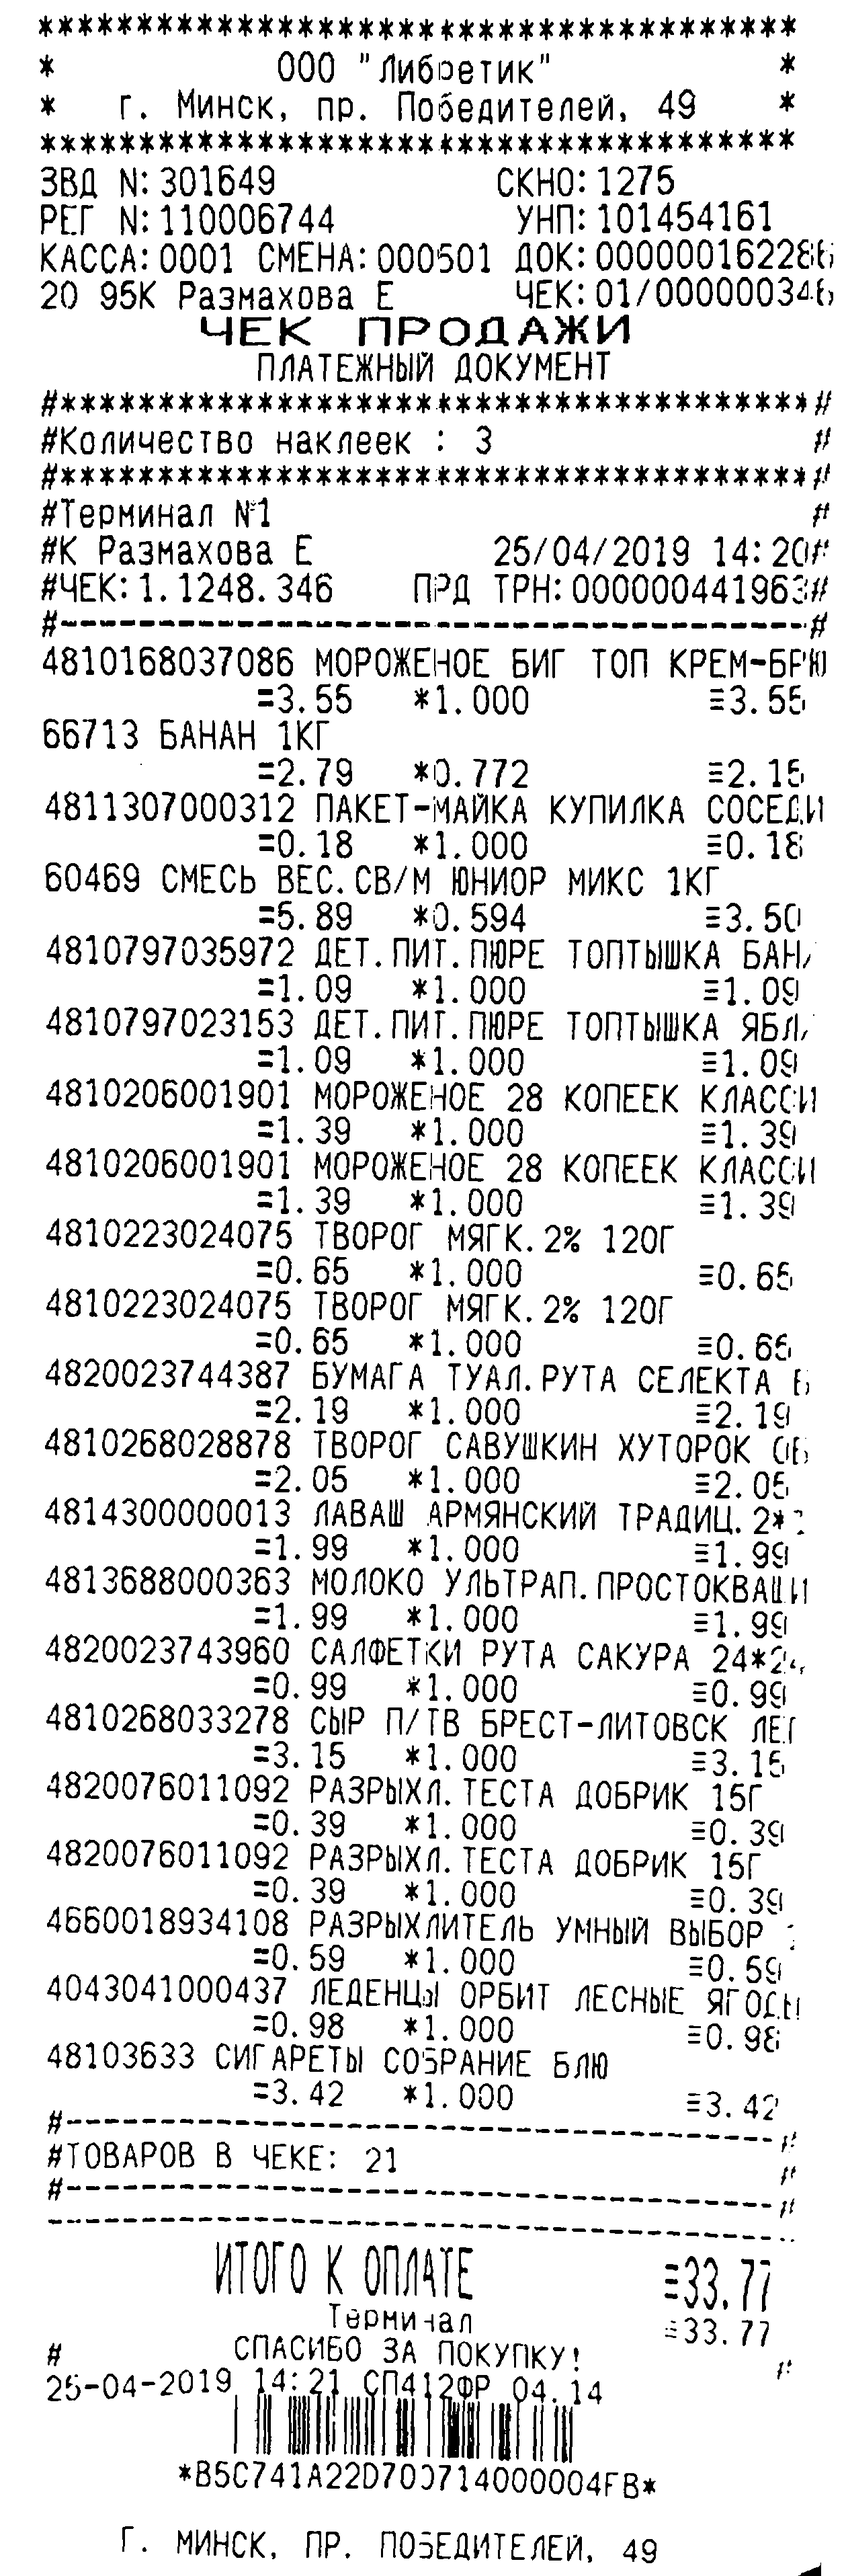
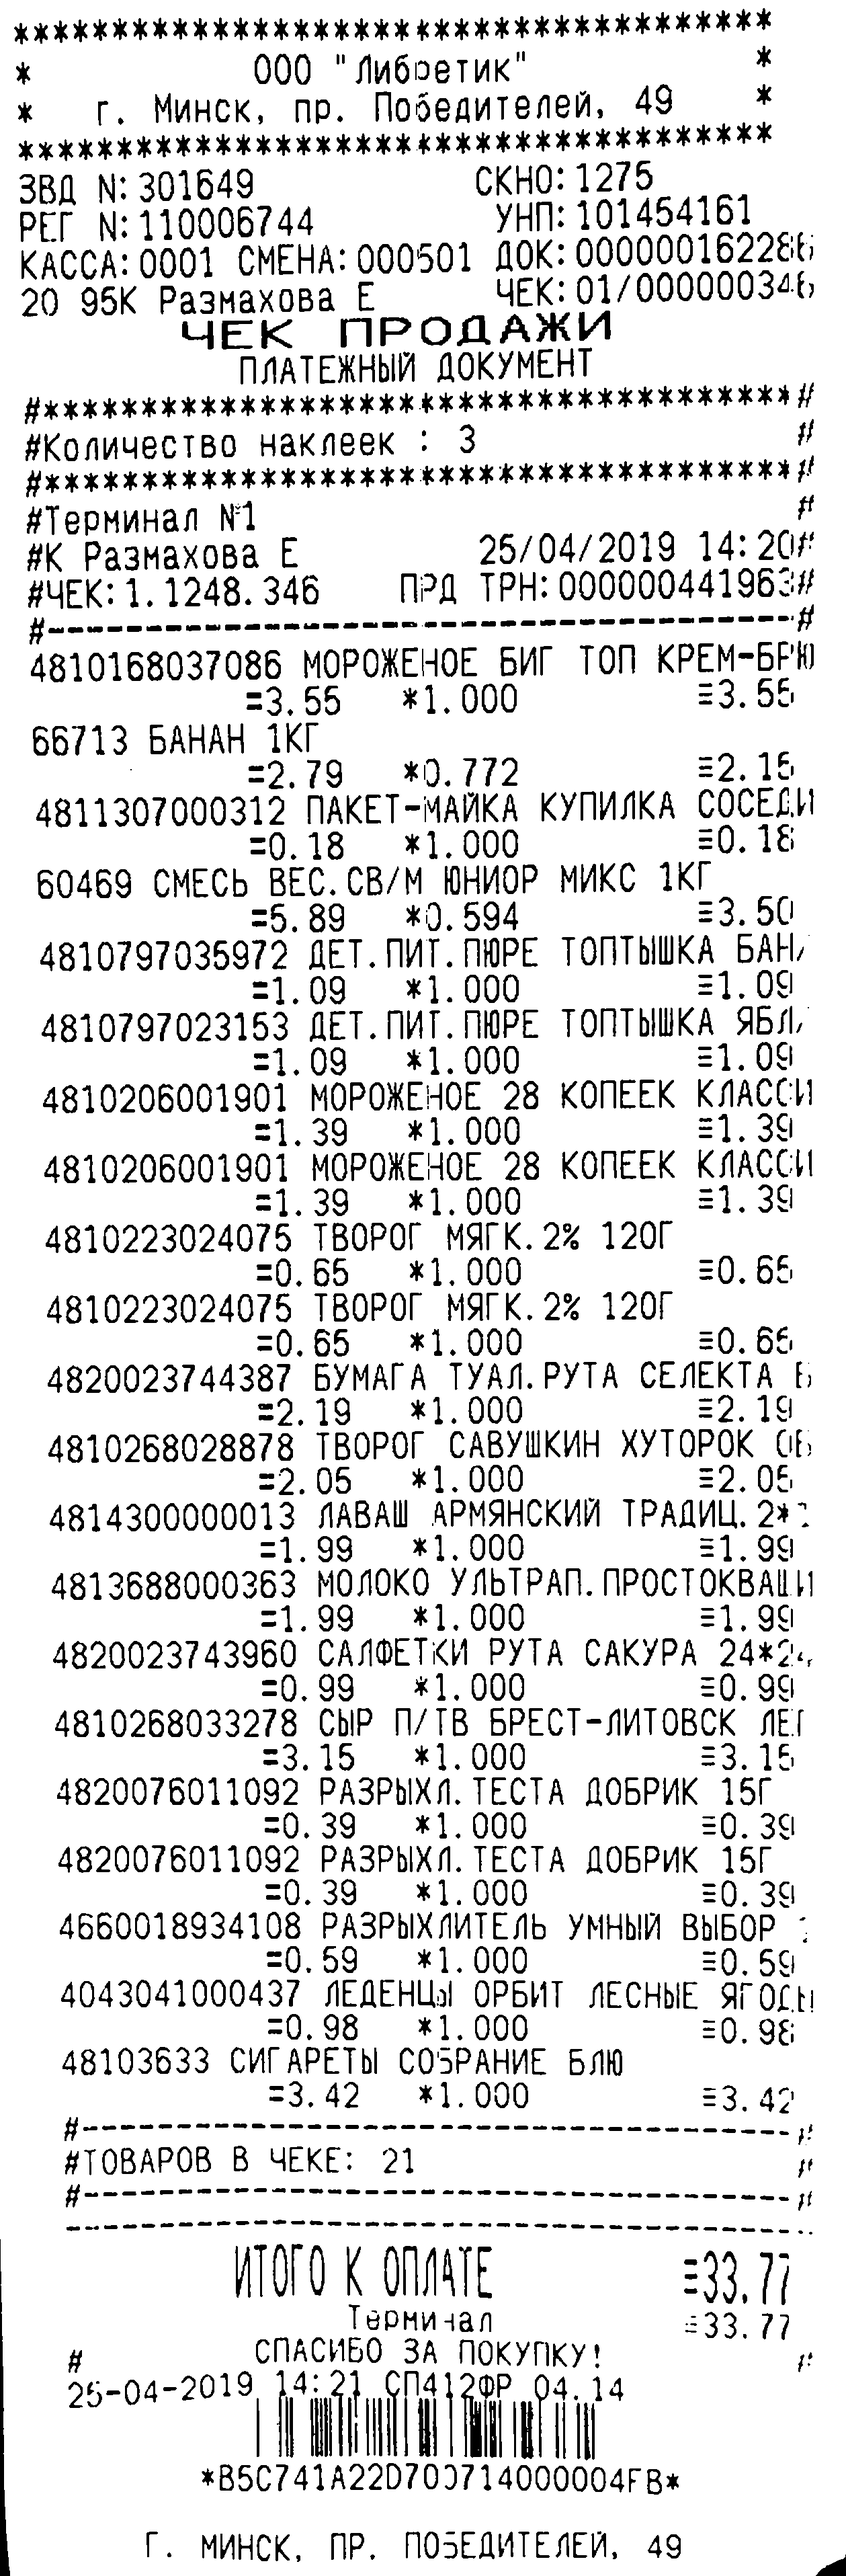
Finished splitting to lines; comperssion of images; shop deducting

diff --git a/yourbudget/algorithm/ReceiptReader.py b/yourbudget/algorithm/ReceiptReader.py
@@ -1,5 +1,6 @@
 from PIL import Image, ImageDraw
 
+from algorithm.readers import *
 from algorithm.Region import Region
 from algorithm.Receipt import Receipt
 from algorithm.RegionFinder import RegionFinder
@@ -9,13 +10,13 @@ from math import atan, pi
 import cv2
 import pyocr
 import pyocr.builders
-import pytesseract
+from pytesseract import image_to_string as img_to_str
 import numpy
 
 DEBUG = False
 
 USE_PYOCR = False
-USE_UPDATE = True
+USE_UPDATE = False
 
 def cut_noise(image):
     threshold = 140
@@ -67,16 +68,19 @@ class ReceiptReader:
     # todo: refactor
     @classmethod
     def find_unparsed_lines(cls, img):
-        draw = ImageDraw.Draw(img)
+        img = cls.rotate_image(img)
 
         matrix = cls.get_matrix_from_image(img)
         m, n = img.size
+        matrix.append([0] * m)
+        n += 1
 
-        lines = []
-        in_region = False
+        img_lines = []
+        in_region = True
+        last_line = 0
 
         for i in range(n):
-            ok = True
+            white_line = True
 
             fp, lp = None, None
 
@@ -90,52 +94,56 @@ class ReceiptReader:
                     lp = j
 
             if fp is None:
-                ok = False
+                white_line = False
 
-            if ok:
+            if white_line:
                 for j in range(fp, lp + 1):
-                    if matrix[i][j]:
-                        ok = False
+                    if matrix[i][j] == 1:
+                        white_line = False
 
             if lp - fp < m // 2:
-                ok = False
+                white_line = False
 
-            if not ok:
+            if not white_line:
                 in_region = False
 
-            if ok and not in_region:
-                lines.append(i)
-                # if DEBUG:
-                draw.line((0, i, m - 1, i), fill=128)
+            if white_line and not in_region:
+                img_lines.append(Image.fromarray(
+                    numpy.asarray(
+                        [
+                            [
+                                255 if matrix[k][j] == 0 else 0
+                                for j in range(m)
+                            ]
+                            for k in range(last_line, i + 1)
+                        ], numpy.uint8
+                    )
+                ))
+
                 in_region = True
+                last_line = i
 
-        # if DEBUG:
-        img.show()
+        if len(img_lines) == 1:
+            return img_lines
 
-        return lines
+        result = []
+        for img in img_lines:
+            result += cls.find_unparsed_lines(img)
+        return result
 
     @classmethod
-    def rotate_image(cls, filename):
-        img = Image.open(filename)
+    def rotate_image(cls, img):
         matrix = cls.get_matrix_from_image(img)
         m, n = img.size
 
-        all_regions = RegionFinder.find_regions(n, m, matrix)
-        stars = RegionFinder.filter_regions(all_regions, RegionFinder.STAR)
+        left_point = RegionFinder.find_left_point(n, m, matrix)
+        right_point = RegionFinder.find_right_point(n, m, matrix)
 
-        pts = [
-            star.get_center()
-            for star in stars
-        ]
-
-        left_point = min(pts, key=DistFunctionFabric(0, 0).eval)
-        right_point = min(pts, key=DistFunctionFabric(0, m - 1).eval)
+        if left_point is None or right_point is None:
+            return img
 
         if DEBUG:
             draw = ImageDraw.Draw(img)
-
-            for star in stars:
-                draw.rectangle(star.bounding_box, fill="red")
 
             print('Left point = ', left_point)
             print('Right point = ', right_point)
@@ -155,7 +163,65 @@ class ReceiptReader:
         if DEBUG:
             rot_img.show()
 
-        rot_img.save(filename)
+        return rot_img
+
+    @classmethod
+    def compress_image(cls, img):
+        BUBEN = 1440
+
+        m, n = img.size
+        if n < BUBEN:
+            return img
+
+        newn = BUBEN
+        newm = int(1. * BUBEN / n * m)
+
+        img = img.resize((newm, newn), Image.BOX)
+        return img
+
+    availiable_readers = [
+        (u'ООО Либретик', SosediReceiptReader),
+        (u'ООО "ТАБАК ИНВЕСТ"', KoronaReceiptReader),
+        # todo biggz
+    ]
+
+    @classmethod
+    def string_distance(cls, s1, s2):
+        if s1.count(s2):
+            return 1.0
+
+        n, m = len(s1), len(s2)
+
+        dp = [
+            [0] * (m + 1)
+            for _ in range(n + 1)
+        ]
+
+        res = 0
+        for i in range(n + 1):
+            for j in range(m + 1):
+                if i == n and j == m:
+                    res = dp[i][j]
+                elif i == n or j == m:
+                    dp[n][m] = max(dp[n][m], dp[i][j])
+                else:
+                    dp[i + 1][j] = max(dp[i + 1][j], dp[i][j])
+                    dp[i][j + 1] = max(dp[i][j + 1], dp[i][j])
+                    if s1[i] == s2[j]:
+                        dp[i + 1][j + 1] = max(dp[i + 1][j + 1], dp[i][j] + 1)
+        print(res, len(s1))
+        return res / len(s1)
+
+    @classmethod
+    def deduct_shop(cls, raw_shop_name):
+        best_result = 0.5
+        best_reader = DefaultReceiptReader
+        for name, reader in cls.availiable_readers:
+            distance = cls.string_distance(name, raw_shop_name)
+            if distance > best_result:
+                best_result = distance
+                best_reader = reader
+        return best_reader
 
     @classmethod
     def convert_to_receipt(cls, image_path):
@@ -167,34 +233,31 @@ class ReceiptReader:
         filename = "{}.png".format("temp")
         cv2.imwrite(filename, gray)
 
-        cls.rotate_image(filename)
-        cls.find_unparsed_lines(Image.open(filename))
+        # todo: обрезать
+        # todo: избавится от шума по краям
 
-        # if USE_PYOCR:
-        #     tools = pyocr.get_available_tools()
-        #
-        #     tool = tools[0]
-        #
-        #     img = Image.open(image_path)
-        #     img = img.convert("L")
-        #     img = cut_noise(img)
-        #
-        #     text = tool.image_to_string(img, lang='rus')
-        # elif USE_UPDATE:
-        #     text = pytesseract.image_to_string(Image.open(filename), lang='rus')
-        # else:
-        #     text = pytesseract.image_to_string(Image.open(image_path), lang='rus')
+        receipt_img = Image.open(filename)
+        receipt_img = cls.compress_image(receipt_img)
 
-        # lines = text.splitlines()
-        #
-        # lines = [
-        #     cls.preetify_line(s)
-        #     for s in lines
-        # ]
-        #
-        # lines = [s for s in lines if len(s) > 0]
-        #
-        # for l in lines:
-        #     print(l)
+        lines = cls.find_unparsed_lines(receipt_img)
 
-        # return Receipt(lines)
+        if USE_PYOCR:
+            raise NotImplementedError('pyocr is not implemented')
+            # tools = pyocr.get_available_tools()
+            #
+            # tool = tools[0]
+            #
+            # img = Image.open(image_path)
+            # img = img.convert("L")
+            # img = cut_noise(img)
+            #
+            # text = tool.image_to_string(img, lang='rus')
+        else:
+            raw_shop_name = ' '.join([
+                img_to_str(l, lang='rus')
+                for l in lines[0:3]
+            ])
+
+        reader = cls.deduct_shop(raw_shop_name)
+        print(reader)
+        return reader.extract_info(Receipt(lines))

diff --git a/yourbudget/algorithm/RegionFinder.py b/yourbudget/algorithm/RegionFinder.py
@@ -16,6 +16,48 @@ class RegionFinder:
         return False
 
     @classmethod
+    def find_left_point(cls, n, m, matrix):
+        for i in range(n):
+            for j in range(m // 2):
+                if matrix[i][j] == 1:
+                    return i, j
+        return None
+
+    @classmethod
+    def find_right_point(cls, n, m, matrix):
+        for i in range(n):
+            for j in reversed(range(m // 2, m)):
+                if matrix[i][j] == 1:
+                    return i, j
+        return None
+
+    @classmethod
+    def find_clothest(cls, n, m, matrix, sx, sy):
+        used = set()
+
+        q = Queue()
+        q.put((sx, sy))
+
+        while not q.empty():
+            x, y = q.get()
+
+            if cls.valid(matrix, x, y):
+                return x, y
+            if (x, y) in used:
+                continue
+            if x < 0 or y < 0 or x >= n or y >= m:
+                continue
+
+            used.add((x, y))
+
+            for d in range(4):
+                dx, dy = DIRECTIONS[d]
+                nx, ny = x + dx, y + dy
+
+                q.put((nx, ny))
+        return None
+
+    @classmethod
     def find_regions(cls, n, m, matrix):
         """
         Breadth-first-search

diff --git a/yourbudget/datahandling/User.py b/yourbudget/datahandling/User.py
@@ -1,4 +1,4 @@
-from algorithm.KoronaReceiptReader import KoronaReceiptParser
+from algorithm.readers import *
 from services.AutoJSONEncoder import AutoJSONEncoder
 from services.AutoJsonDecoder import AutoJSONDecoder
 from algorithm.ReceiptReader import ReceiptReader
@@ -13,7 +13,7 @@ class User:
         self.list_of_purchases = []
 
     def save_purchase_info(self, receipt_path):
-        receipt_data = KoronaReceiptParser.extract_info(ReceiptReader.convert_to_receipt(receipt_path))
+        receipt_data = KoronaReceiptReader.extract_info(ReceiptReader.convert_to_receipt(receipt_path))
         self.list_of_purchases.append(receipt_data)
 
         with open(self.data_file, "w") as write_file:

diff --git a/yourbudget/algorithm/readers.py b/yourbudget/algorithm/readers.py
@@ -9,6 +9,22 @@ def only_digits(s):
             t += c
     return float(t)
 
+
+class DefaultReceiptReader:
+    @classmethod
+    def extract_info(cls, receipt):
+        extracted_data = ShoppingTrip()
+        return extracted_data
+
+
+class SosediReceiptReader:
+    @classmethod
+    def extract_info(cls, receipt):
+        extracted_data = ShoppingTrip()
+        return extracted_data
+
+
+# todo: rewrite completely
 class KoronaReceiptReader:
     @classmethod
     def extract_info(cls, receipt):

diff --git a/yourbudget/main.py b/yourbudget/main.py
@@ -1,4 +1,3 @@
-from algorithm.KoronaReceiptReader import KoronaReceiptParser
 from algorithm.ReceiptReader import ReceiptReader
 from datahandling.User import User
 import os
@@ -9,6 +8,13 @@ def test_tesser():
     test_path = TESTS_PATH + tests[-1]
 
     r = ReceiptReader.convert_to_receipt(test_path)
+    exit(0)
+
+
+def test_rotation():
+    path = 'test_rotate.PNG'
+    from PIL import Image
+    ReceiptReader.find_unparsed_lines(Image.open(path))
     exit(0)
 
 if __name__ == '__main__':

diff --git a/yourbudget/algorithm/Receipt.py b/yourbudget/algorithm/Receipt.py
@@ -1,3 +1,3 @@
 class Receipt:
     def __init__(self, lines):
-        self.info = lines
+        self.img_lines = lines
